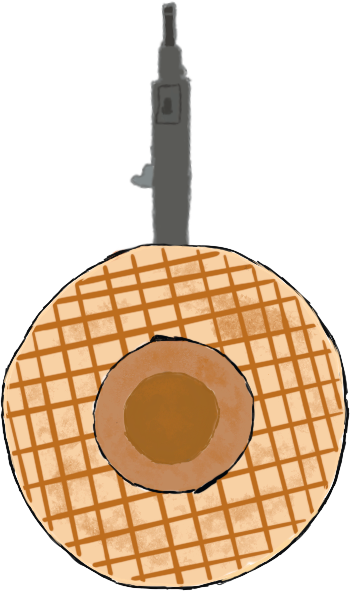
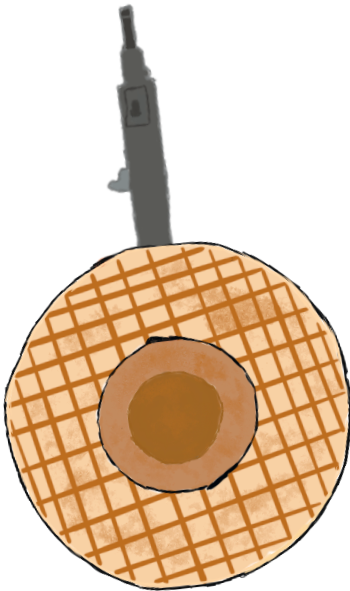
Fine tuning

diff --git a/app.js b/app.js
@@ -694,7 +694,7 @@ class Tower extends Phaser.GameObjects.Sprite {
             this.bullet = new Bullet(this.scene, this.x, this.y, 'bullet');
             this.scene.bulletGroup.add(this.bullet);
             this.bullet.time = 250;
-            this.bullet.damage = 1;
+            this.bullet.damage = 2;
             this.bullet.move(this.target);
             // this.setAngle(Phaser.Math.Angle.Between(this.x, this.y, this.target.x, this.target.y) - 80);
             this.setRotation(Phaser.Math.Angle.Between(this.x, this.y, this.target.x, this.target.y) + 90);
@@ -757,12 +757,12 @@ class SniperTower extends Phaser.GameObjects.Sprite {
     shoot(){
         // this.physics.add.existing(this.npc);
         // this.physics.moveTo(this.npc, 500, 300, 300, 2000);
-        this.findTarget();
+        this.target = this.findTarget();
         if(this.target){
             this.bullet = new Bullet(this.scene, this.x, this.y, 'bullet');
             this.scene.bulletGroup.add(this.bullet);
             this.bullet.time = 600;
-            this.bullet.damage = 2;
+            this.bullet.damage = 5;
             this.bullet.move(this.target);
             // this.setAngle(Phaser.Math.Angle.Between(this.x, this.y, this.target.x, this.target.y) - 80);
             this.setRotation(Phaser.Math.Angle.Between(this.x, this.y, this.target.x, this.target.y) + 90);
@@ -783,15 +783,14 @@ class SniperTower extends Phaser.GameObjects.Sprite {
                     target = tar;
                 }
             });
-
-            if(target != null){
+            if(target){
                 if(Phaser.Math.Distance.Between(this.x, this.y, target.x, target.y) <= this.range){
-                    this.target = target;
+                    return target;
                 }
             }
             else{
                 console.log("No target");
-                this.target = undefined; 
+                return; 
             }
         }
 
@@ -827,7 +826,7 @@ class SMGTower extends Phaser.GameObjects.Sprite {
     shoot(){
         // this.physics.add.existing(this.npc);
         // this.physics.moveTo(this.npc, 500, 300, 300, 2000);
-        this.findTarget();
+        this.target = this.findTarget();
         if(this.target){
             this.bullet = new Bullet(this.scene, this.x, this.y, 'bullet');
             this.scene.bulletGroup.add(this.bullet);
@@ -839,7 +838,7 @@ class SMGTower extends Phaser.GameObjects.Sprite {
             }
             this.bullet.move(tar);
             // this.setAngle(Phaser.Math.Angle.Between(this.x, this.y, this.target.x, this.target.y) - 80);
-            this.setRotation(Phaser.Math.Angle.Between(this.x, this.y, this.target.x, this.target.y) + 90);
+            this.setAngle(Phaser.Math.Angle.Between(this.x, this.y, this.target.x, this.target.y) - 140);
         }
     }
     findTarget() {
@@ -860,12 +859,12 @@ class SMGTower extends Phaser.GameObjects.Sprite {
 
             if(target != null){
                 if(Phaser.Math.Distance.Between(this.x, this.y, target.x, target.y) <= this.range){
-                    this.target = target;
+                    return target;
                 }
             }
             else{
                 console.log("No target");
-                this.target = undefined; 
+                return; 
             }
         }
 
